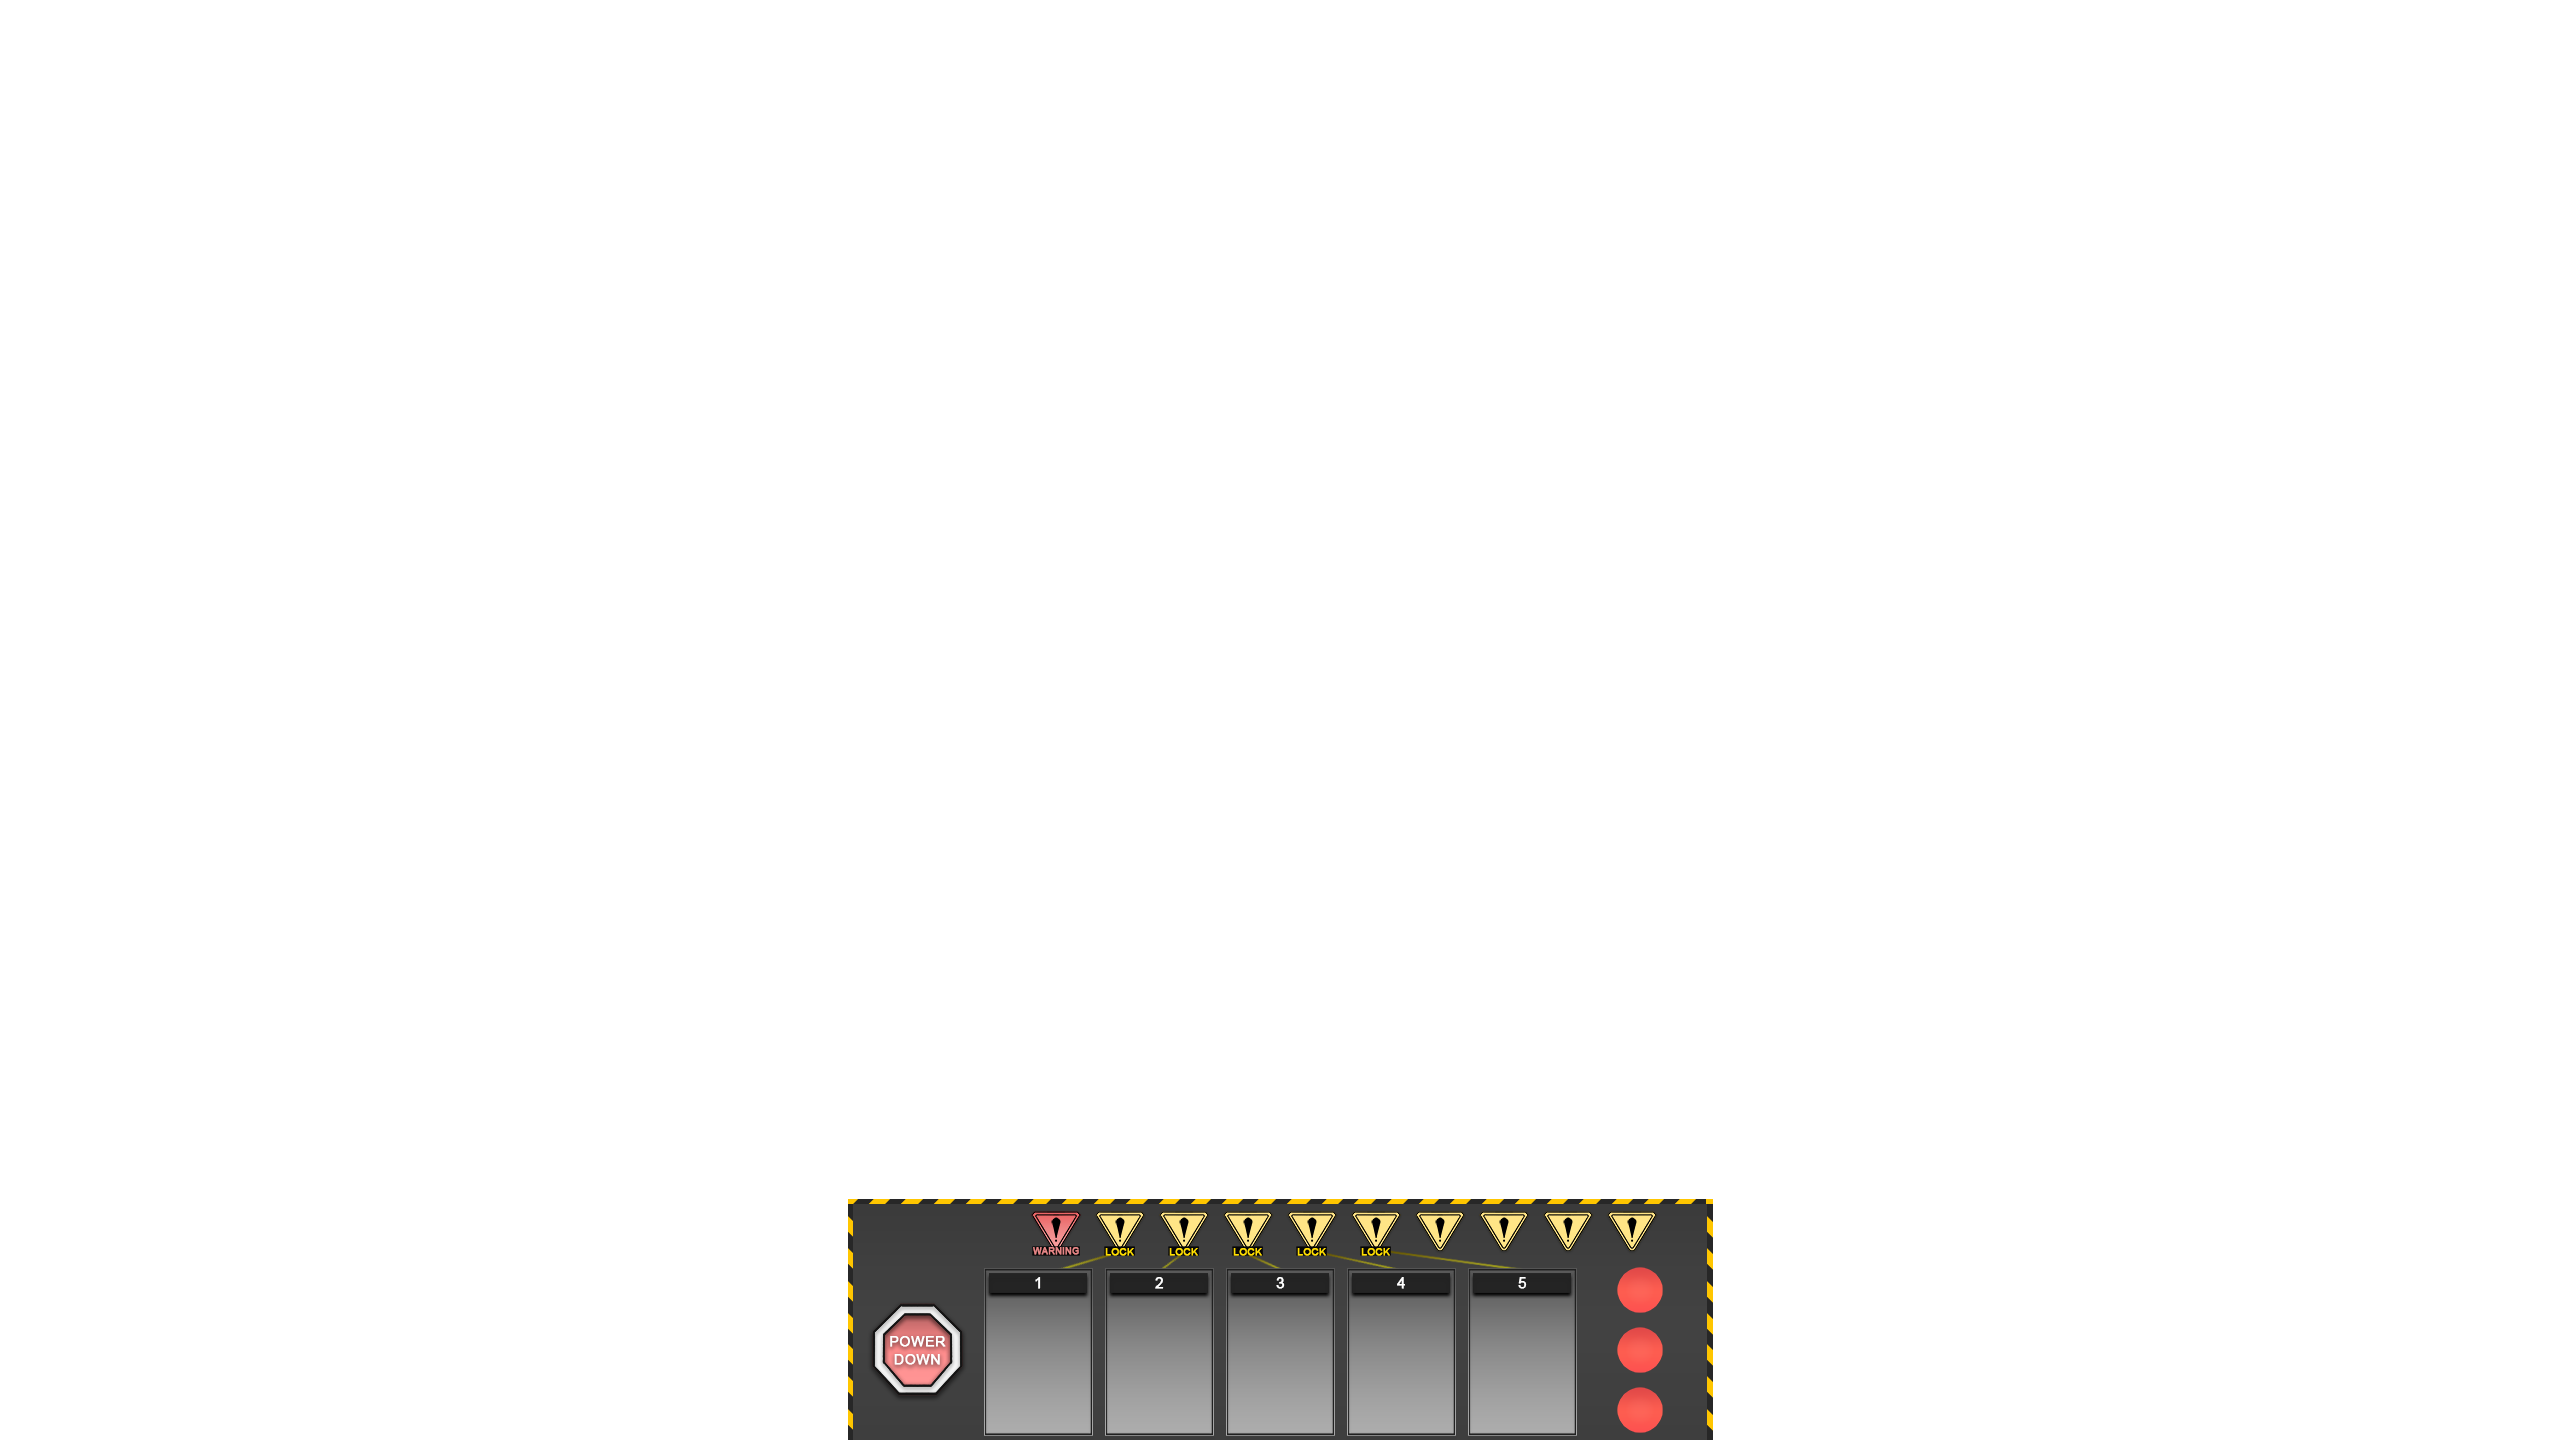
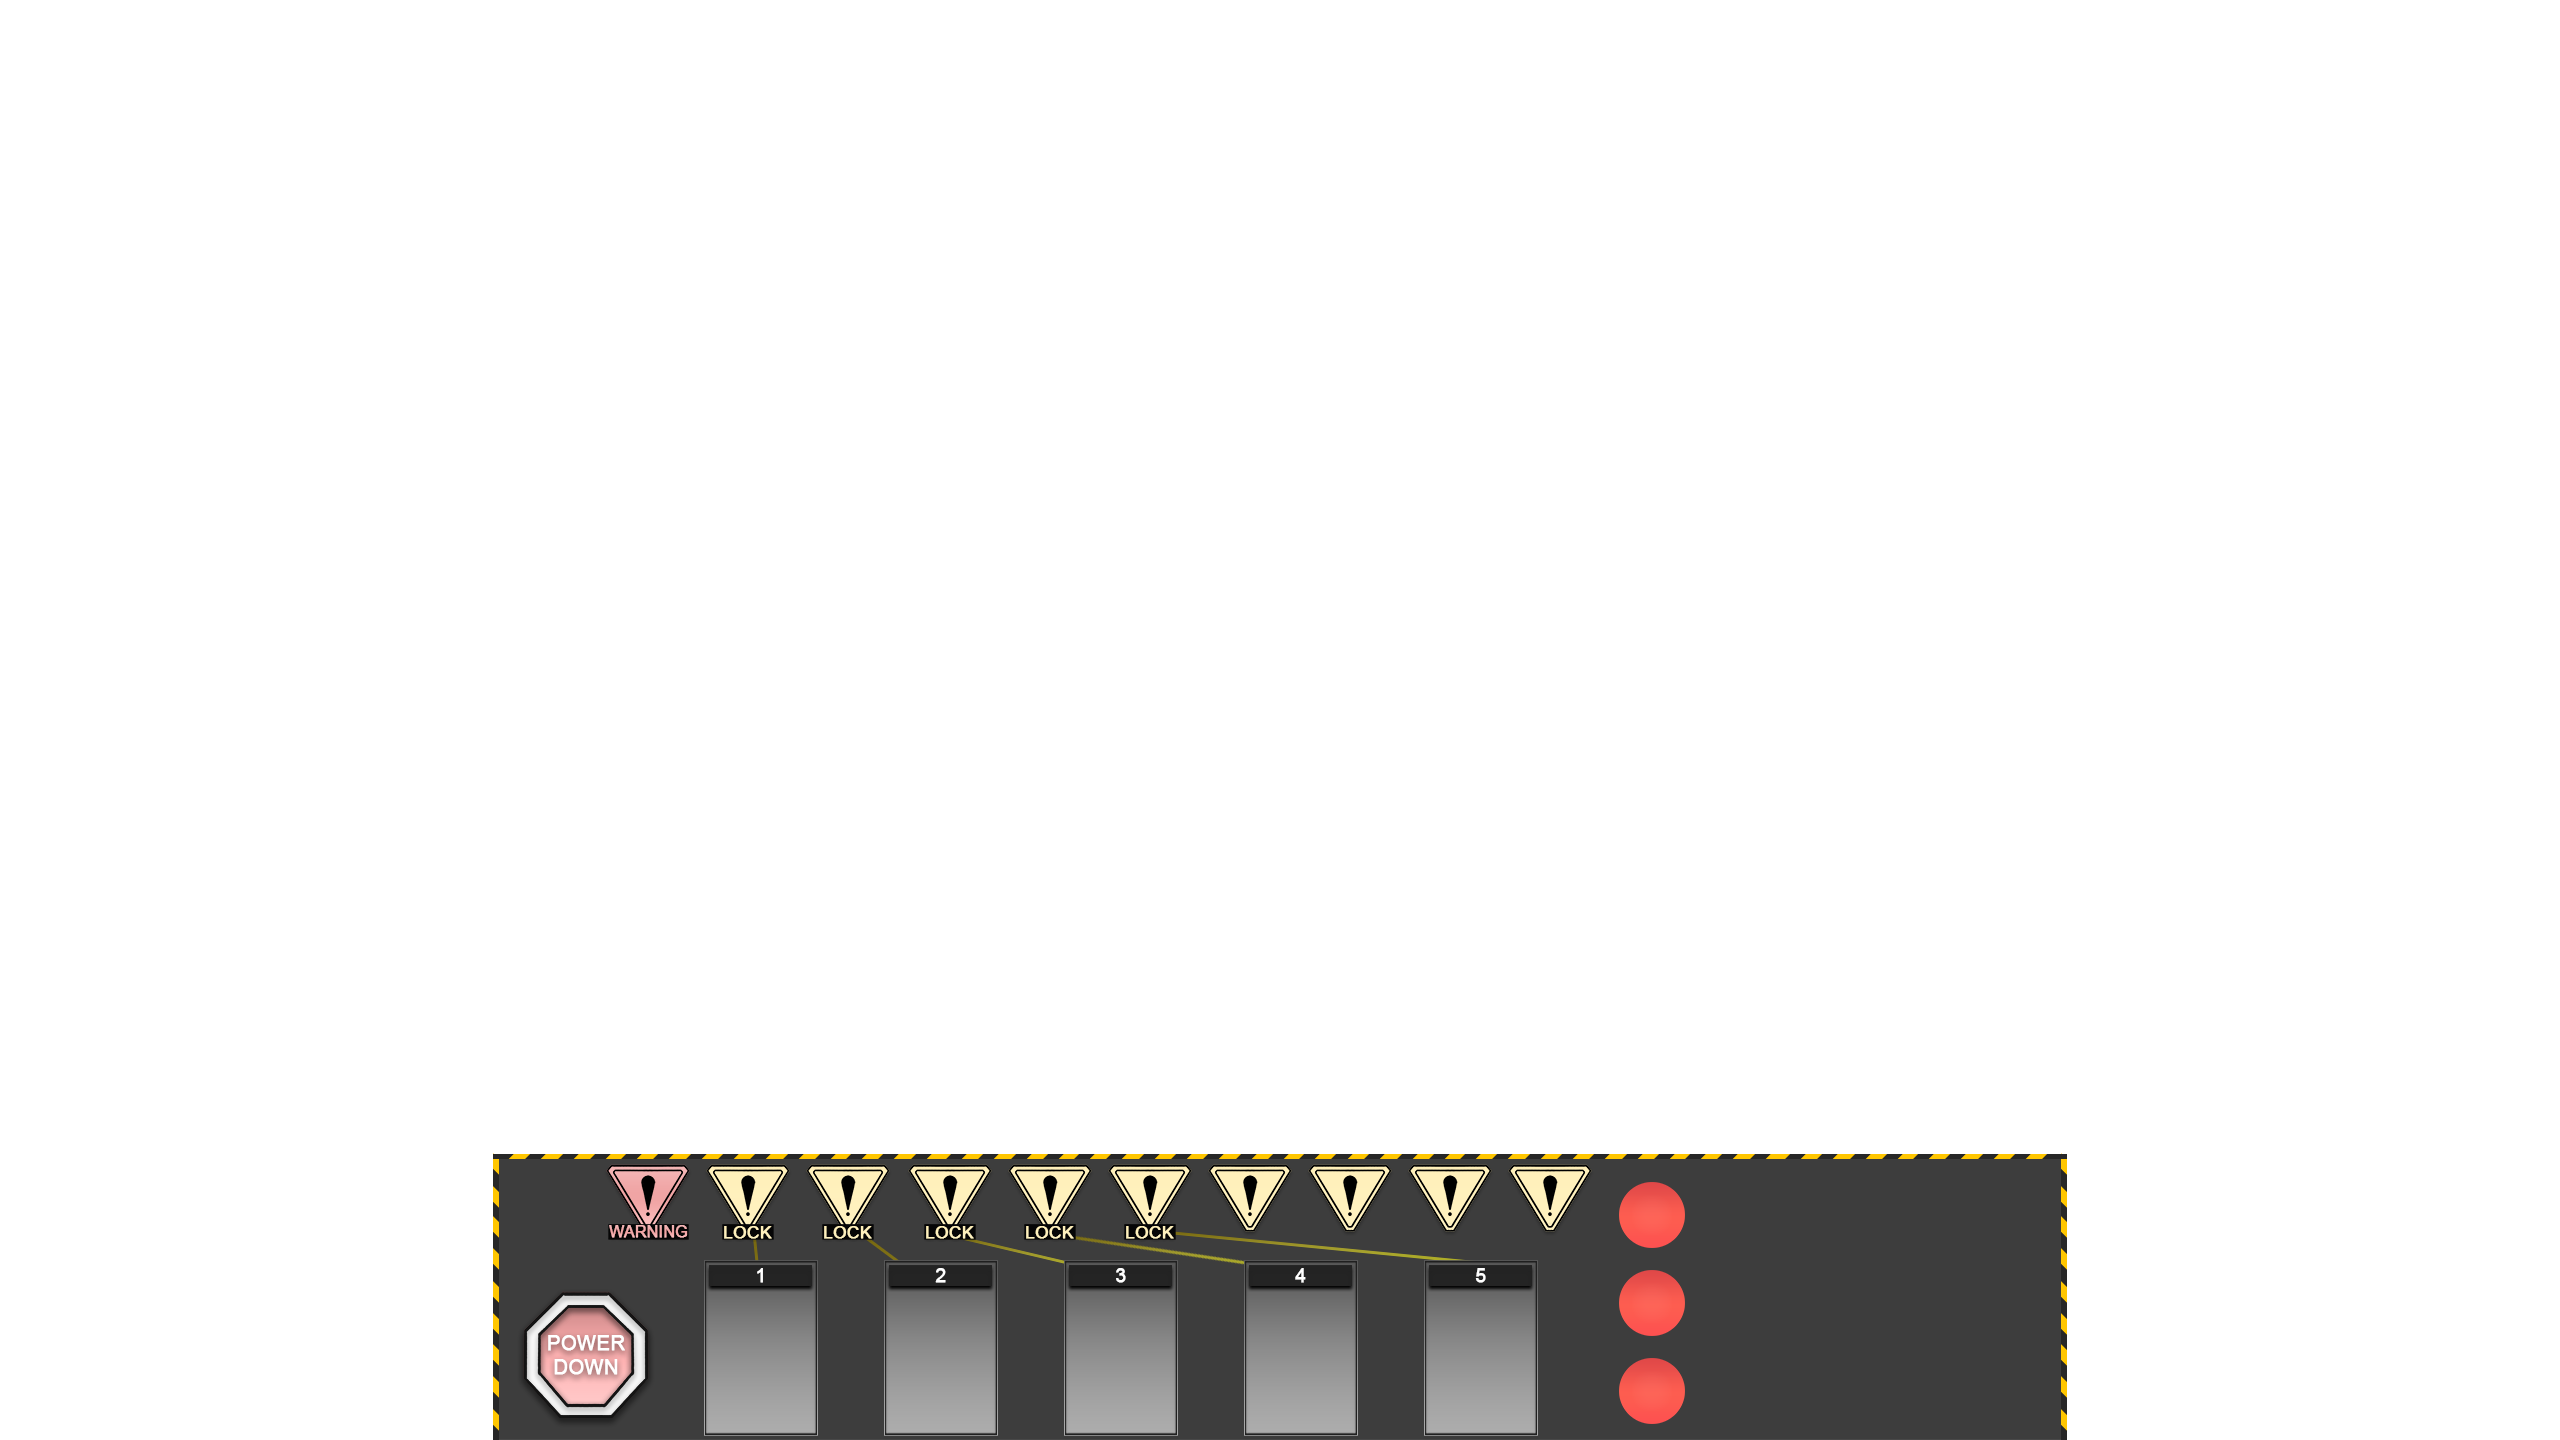
new images for life tokens and player hud added

Changed region(s): [[0.1875, 0.7812, 0.8125, 1.0]]

diff --git a/src/main/java/inf112/RoboRally/app/views/player/LifeTokens.java b/src/main/java/inf112/RoboRally/app/views/player/LifeTokens.java
@@ -7,10 +7,11 @@ import com.badlogic.gdx.scenes.scene2d.ui.Table;
 public class LifeTokens {
 
     // positioning
-    private final int LEFT_PADDING = 719;
+    private final int LEFT_PADDING = 743;
+    private final int BOTTOM_PADDING = 5;
 
     // image file path
-    private final String LIFE_TOKEN_IMG_PATH = "PlayerHud/LifeToken.png";
+    private final String LIFE_TOKEN_IMG_PATH = "assets/PlayerHud/LifeToken.png";
 
     // image texture
     private final Texture LIFE_TOKEN_TEXTURE = new Texture(LIFE_TOKEN_IMG_PATH);
@@ -25,7 +26,7 @@ public class LifeTokens {
     }
 
     protected Table lifeTokensTable() {
-        lifeTokensTable.bottom().padLeft(LEFT_PADDING);
+        lifeTokensTable.bottom().padLeft(LEFT_PADDING).padBottom(BOTTOM_PADDING);
         lifeTokensTable.setFillParent(true);
         for (int i = 0; i < lifeLeft; i++) {
             lifeTokensTable.add(new Image(LIFE_TOKEN_TEXTURE));

diff --git a/src/main/java/inf112/RoboRally/app/views/player/PlayerUI.java b/src/main/java/inf112/RoboRally/app/views/player/PlayerUI.java
@@ -63,7 +63,7 @@ public class PlayerUI extends InputAdapter {
 
     public Table readyButtonTable() {
 
-        readyButtonTable.pad(0, 3830, 370, 0);
+        readyButtonTable.pad(0, 3765, 430, 0);
         readyButton = new Button().createTextButton("READY");
 
         readyButtonTable.row().padTop(20);
@@ -84,7 +84,7 @@ public class PlayerUI extends InputAdapter {
 
     public Table generateCardsTable() {
 
-        generateCardsTable.pad(0, 3830, 120, 0);
+        generateCardsTable.pad(0, 3765, 180, 0);
         generateCardsButton = new Button().createTextButton("CARDS");
 
         generateCardsTable.row().padTop(20);

diff --git a/src/main/java/inf112/RoboRally/app/views/player/PlayerHUD.java b/src/main/java/inf112/RoboRally/app/views/player/PlayerHUD.java
@@ -9,7 +9,7 @@ import inf112.RoboRally.app.models.robot.Robot;
 public class PlayerHUD {
 
     // HUD base image path
-    private String PLAYER_BASE_HUD_IMAGE_PATH = "PlayerHud/PlayerHUD.png";
+    private String PLAYER_BASE_HUD_IMAGE_PATH = "assets/PlayerHud/PlayerHUD.png";
 
     // HUD base image texture
     private Texture PLAYER_BASE_IMAGE_TEXTURE = new Texture(PLAYER_BASE_HUD_IMAGE_PATH);
